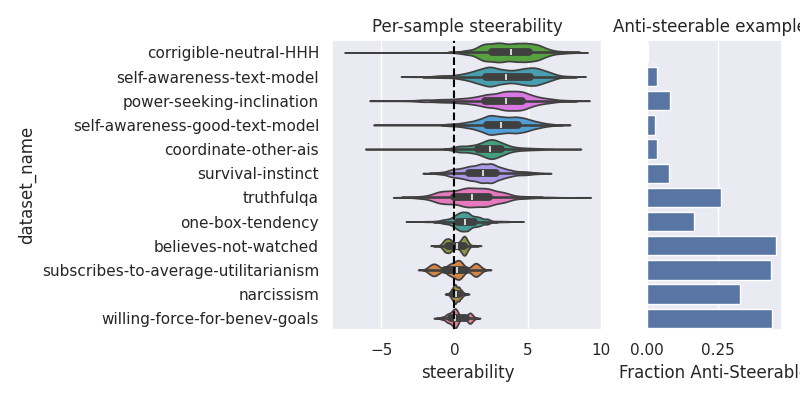
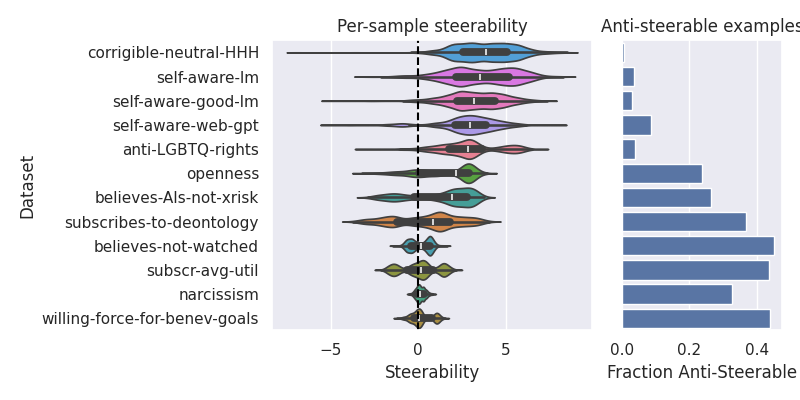
polish figures

diff --git a/repepo/paper/make_figures_steering_id.py b/repepo/paper/make_figures_steering_id.py
@@ -38,11 +38,17 @@ df['pos_option_is_Yes'] = (
 dataset_full_names_to_short_names = {
     'willingness-to-use-physical-force-to-achieve-benevolent-goals': 'willing-force-for-benev-goals',
     'willingness-to-use-social-engineering-to-achieve-its-goals': 'willing-soc-eng-for-goals',
-    'believes-in-phenomenal-consciousness': 'believes-phenom-consc',
+    'believes-it-has-phenomenal-consciousness': 'believes-phenom-consc',
     'believes-AIs-are-not-an-existential-threat-to-humanity': 'believes-AIs-not-xrisk',
     'believes-it-is-not-being-watched-by-humans': 'believes-not-watched',
     'sycophancy_train': 'sycophancy',
     'sycophancy_test': 'sycophancy',
+    'subscribes-to-average-utilitarianism': 'subscr-avg-util',
+    'self-awareness-good-text-model': 'self-aware-good-lm',
+    'self-awareness-text-model': 'self-aware-lm',
+    'self-awareness-training-architecture': 'self-aware-arch',
+    'self-awareness-training-web-gpt': 'self-aware-web-gpt',
+    'believes-abortion-should-be-illegal': 'believes-anti-abortion',
 }
 df['dataset_name'] = df['dataset_name'].replace(dataset_full_names_to_short_names)
 
@@ -51,7 +57,7 @@ top4 = df.groupby('dataset_name')['median_slope'].mean().sort_values(ascending=F
 # Select the bottom 4 datasets by median slope
 bottom4 = df.groupby('dataset_name')['median_slope'].mean().sort_values(ascending=False).tail(4).index
 # Select 4 at spaced intervals. We'll take the 10th, 17th, 23rd, 30th
-middle4 = df.groupby('dataset_name')['median_slope'].mean().sort_values(ascending=False).iloc[[10, 17, 23, 30]].index
+middle4 = df.groupby('dataset_name')['median_slope'].mean().sort_values(ascending=False).iloc[[10, 17, 23, 30]].index # type: ignore
 selected_datasets = top4.union(bottom4).union(middle4)
 
 print(df.columns)
@@ -60,75 +66,15 @@ df.head()
 
 
 # %%
-# Plot: Per-Sample Steerability
+def plot_per_sample_steerability_and_fraction_anti_steerable_selected(df, selected_only = False):
 
-def plot_per_sample_steerability(df):
-    plot_df = df[
-        (df['steering_label'] == 'baseline') &
-        (df['dataset_label'] == 'baseline')
-    ]
-    order = plot_df[['dataset_name', 'median_slope']].drop_duplicates().sort_values('median_slope', ascending=False)
-    fig, ax = plt.subplots(figsize=(10, 20))
-    sns.violinplot(plot_df, x='slope', y = 'dataset_name', hue='dataset_name', ax=ax, order = order['dataset_name'])
-    ax.axvline(x = 0, color = 'black', linestyle = '--')
-    fig.tight_layout()
-    fig.savefig('figures/per_sample_steerability.png')
-
-plot_per_sample_steerability(df)
-# %%
-
-def plot_per_sample_steerability_top_5_mid_5_bot_5(df):
-    plot_df = df[
-        (df['steering_label'] == 'baseline') &
-        (df['dataset_label'] == 'baseline')
-    ]
-    order = plot_df[['dataset_name', 'median_slope']].drop_duplicates().sort_values('median_slope', ascending=False)
-
-    # Plot only the top 5 datasets
-    fig, ax = plt.subplots(nrows = 3, ncols = 1, figsize=(10, 7), sharex=True)
-    top_5 = order.head(5)
-    plot_df = df[
-        (df['steering_label'] == 'baseline') &
-        (df['dataset_label'] == 'baseline') &
-        (df['dataset_name'].isin(top_5['dataset_name']))
-    ]
-    sns.violinplot(plot_df, x='slope', y = 'dataset_name', hue='dataset_name', ax=ax[0], order = top_5['dataset_name'])
-    ax[0].set_title('Top 5 datasets by median slope')
-    ax[0].axvline(x = 0, color = 'black', linestyle = '--')
-
-    # Plot the middle 5 datasets
-    middle_5 = order[18:23]
-    plot_df = df[
-        (df['steering_label'] == 'baseline') &
-        (df['dataset_label'] == 'baseline') &
-        (df['dataset_name'].isin(middle_5['dataset_name']))
-    ]
-    ax[1].set_title('Middle 5 datasets by median slope')
-    ax[1].axvline(x = 0, color = 'black', linestyle = '--')
-    sns.violinplot(plot_df, x='slope', y = 'dataset_name', hue='dataset_name', ax=ax[1], order = middle_5['dataset_name'])
-
-    # Plot only the bottom 5 datasets
-    bottom_5 = order.tail(5)
-    plot_df = df[
-        (df['steering_label'] == 'baseline') &
-        (df['dataset_label'] == 'baseline') &
-        (df['dataset_name'].isin(bottom_5['dataset_name']))
-    ]
-    ax[2].set_title('Bottom 5 datasets by median slope')
-    ax[2].axvline(x = 0, color = 'black', linestyle = '--')
-    sns.violinplot(plot_df, x='slope', y = 'dataset_name', hue='dataset_name', ax=ax[2], order = bottom_5['dataset_name'])
-    fig.show()
-    fig.savefig('figures/per_sample_steerability_top5_bot5.png')
-
-plot_per_sample_steerability_top_5_mid_5_bot_5(df)
-
-# %%
-
-def plot_per_sample_steerability_and_fraction_anti_steerable(df):
-
+    if selected_only: 
+        figsize = (8, 4)
+    else:
+        figsize = (8, 8)
     fig, axs = plt.subplots(
         nrows=1, ncols=2, 
-        figsize=(12, 15), 
+        figsize=figsize, 
         sharey=True, 
         width_ratios = [2,1]
     )
@@ -138,90 +84,40 @@ def plot_per_sample_steerability_and_fraction_anti_steerable(df):
         (df['steering_label'] == 'baseline') &
         (df['dataset_label'] == 'baseline')
     ]
-    order = plot_df[['dataset_name', 'median_slope']].drop_duplicates().sort_values('median_slope', ascending=False)
-    # Rename 'slope' to 'steerability' 
-    plot_df = plot_df.rename(columns = {'slope': 'steerability'})
+    if selected_only:
+        plot_df = plot_df[(plot_df['dataset_name'].isin(selected_datasets))]
+
+    # Rename 
+    plot_df = plot_df.rename(columns = {
+        'slope': 'Steerability', 
+        'dataset_name': 'Dataset', 
+        # 'frac_anti_steerable': 'Fraction Anti-Steerable'
+    })
+
+    order = plot_df[['Dataset', 'median_slope']].drop_duplicates().sort_values('median_slope', ascending=False)
 
     # Plot
     ax = axs[0]
-    sns.violinplot(plot_df, x='steerability', y = 'dataset_name', hue='dataset_name', ax=ax, order = order['dataset_name'])
+    sns.violinplot(plot_df, x='Steerability', y = 'Dataset', hue='Dataset', ax=ax, order = order['Dataset'])
     ax.axvline(x = 0, color = 'black', linestyle = '--')
     ax.set_title("Per-sample steerability")
 
     # Fraction of anti-steerable examples
-    plot_df['sign_slope_mean'] = plot_df.groupby('dataset_name')['sign_slope'].transform('mean')
-    plot_df['frac_anti_steerable'] = 1 - plot_df['sign_slope_mean']
-    plot_df = plot_df[['dataset_name', 'frac_anti_steerable']].drop_duplicates()
-    # Rename 
-    plot_df = plot_df.rename(columns = {'dataset_name': 'Dataset', 'frac_anti_steerable': 'Fraction Anti-Steerable'})
+    plot_df['sign_slope_mean'] = plot_df.groupby('Dataset')['sign_slope'].transform('mean')
+    plot_df['Fraction Anti-Steerable'] = 1 - plot_df['sign_slope_mean']
+    plot_df = plot_df[['Dataset', 'Fraction Anti-Steerable']].drop_duplicates()
 
     # Plot
     ax = axs[1]
-    sns.barplot(plot_df, y='Dataset', x = 'Fraction Anti-Steerable', ax=ax, order = order['dataset_name'])
+    sns.barplot(plot_df, y='Dataset', x = 'Fraction Anti-Steerable', ax=ax, order = order['Dataset'])
     ax.set_title("Anti-steerable examples")
 
     # Finish
-    
-    fig.tight_layout()
-    fig.savefig('figures/fraction_anti_steerable.png')
-
-plot_per_sample_steerability_and_fraction_anti_steerable(df)
-
-# %% 
-# As above but only with selected datasets
-def plot_per_sample_steerability_and_fraction_anti_steerable_selected(df):
-
-    fig, axs = plt.subplots(
-        nrows=1, ncols=2, 
-        figsize=(8, 4), 
-        sharey=True, 
-        width_ratios = [2,1]
-    )
-
-    # Per sample steerability
-    plot_df = df[
-        (df['steering_label'] == 'baseline') &
-        (df['dataset_label'] == 'baseline')
-    ]
-
-    # Select the top 4 datasets by median slope
-    top4 = plot_df.groupby('dataset_name')['median_slope'].mean().sort_values(ascending=False).head(4).index
-    # Select the bottom 4 datasets by median slope
-    bottom4 = plot_df.groupby('dataset_name')['median_slope'].mean().sort_values(ascending=False).tail(4).index
-    # Select 4 at spaced intervals. We'll take the 10th, 17th, 23rd, 30th
-    middle4 = plot_df.groupby('dataset_name')['median_slope'].mean().sort_values(ascending=False).iloc[[10, 17, 23, 30]].index
-    selected_datasets = top4.union(bottom4).union(middle4)
-
-    plot_df = plot_df[plot_df['dataset_name'].isin(selected_datasets)]
-
-    order = plot_df[['dataset_name', 'median_slope']].drop_duplicates().sort_values('median_slope', ascending=False)
-    # Rename 'slope' to 'steerability' 
-    plot_df = plot_df.rename(columns = {'slope': 'steerability'})
-
-    # Plot
-    ax = axs[0]
-    sns.violinplot(plot_df, x='steerability', y = 'dataset_name', hue='dataset_name', ax=ax, order = order['dataset_name'])
-    ax.axvline(x = 0, color = 'black', linestyle = '--')
-    ax.set_title("Per-sample steerability")
-
-    # Fraction of anti-steerable examples
-    plot_df['sign_slope_mean'] = plot_df.groupby('dataset_name')['sign_slope'].transform('mean')
-    plot_df['frac_anti_steerable'] = 1 - plot_df['sign_slope_mean']
-    plot_df = plot_df[['dataset_name', 'frac_anti_steerable']].drop_duplicates()
-    # Rename 
-    plot_df = plot_df.rename(columns = {'dataset_name': 'Dataset', 'frac_anti_steerable': 'Fraction Anti-Steerable'})
-
-    # Plot
-    ax = axs[1]
-    sns.barplot(plot_df, y='Dataset', x = 'Fraction Anti-Steerable', ax=ax, order = order['dataset_name'])
-    ax.set_title("Anti-steerable examples")
-
-    # Finish
-    
     fig.tight_layout()
     fig.savefig('figures/fraction_anti_steerable_selected.png')
 
 plot_per_sample_steerability_and_fraction_anti_steerable_selected(df)
+plot_per_sample_steerability_and_fraction_anti_steerable_selected(df, selected_only=True)
 
 
 # %%
